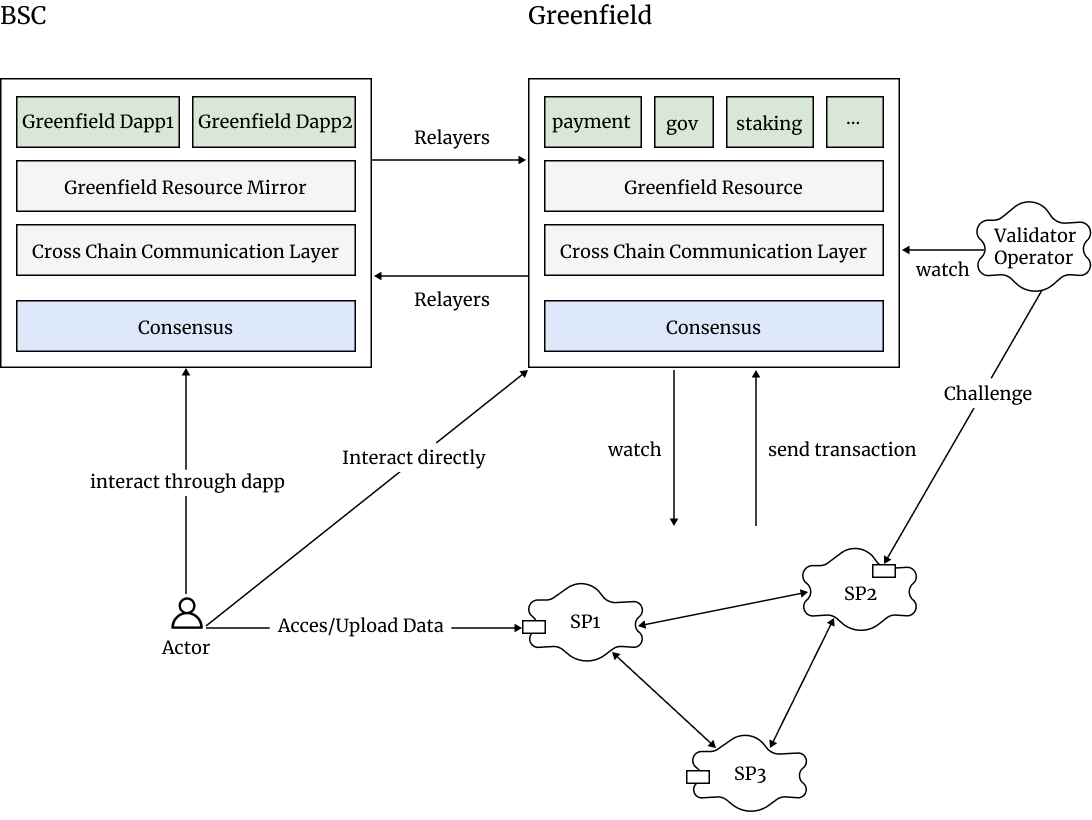
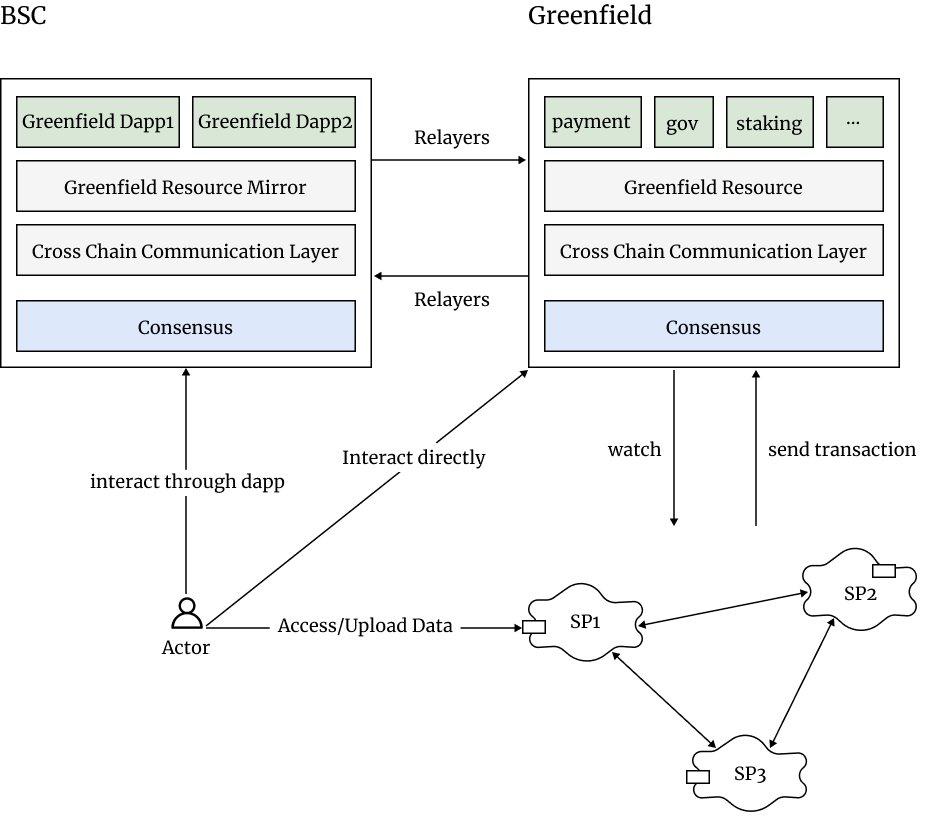
doc: fix minor ambiguous wording and figures in chapter14, adjust size of figure (#4)
* docs: fix minor ambiguity wording and figure in chapt14

* change the size of figure to 80% of origin one

diff --git a/part3.md b/part3.md
@@ -75,7 +75,7 @@ with either new sections added or existing sections revised.
 
 There are several player roles for the whole Greenfield ecosystem.
 
-<div align="center"><img src="./assets/14.1%20All%20Players%20of%20Greenfield.jpg"></div>
+<div align="center"><img src="./assets/14.1%20All%20Players%20of%20Greenfield.jpg"  height="80%" width="80%"></div>
 <div align="center"><i>Figure 14.1: All Players of Greenfield</i></div>
 
 ### 14.1 Greenfield Validators
@@ -102,7 +102,7 @@ secure validator setup of PoS blockchains. "Sentry Nodes" are used to
 defend against DDoS and provide a secure private network, as shown in
 the below diagram.
 
-<div align="center"><img src="./assets/14.2%20Greenfield%20Blockchain%20Network.jpg"></div>
+<div align="center"><img src="./assets/14.2%20Greenfield%20Blockchain%20Network.jpg"  height="80%" width="80%"></div>
 <div align="center"><i>Figure 14.2: Greenfield Blockchain Network</i></div>
 
 ### 14.2 Storage Providers (SPs)
@@ -122,7 +122,7 @@ requests in REST APIs or P2P RPCs.
 
 The typical network topology of connected SPs is as the below figure.
 
-<div align="center"><img src="./assets/14.3%20Greenfield%20Storage%20Provider%20Network.jpg"></div>
+<div align="center"><img src="./assets/14.3%20Greenfield%20Storage%20Provider%20Network.jpg" height="80%" width="80%"></div>
 <div align="center"><i>Figure 14.3: Greenfield Storage Provider Network</i></div>
 
 SPs may provide plenty of convenient services for users and dApps to get
@@ -533,7 +533,7 @@ size segment but the last segment, which is the actual size. For
 example, if one object has a size 50MB, only the size of the last
 segment is 2 MB and the other segments' sizes are all 16MB.
 
-<div align="center"><img src="./assets/18.1%20Object%20Segmentation.jpg"></div>
+<div align="center"><img src="./assets/18.1%20Object%20Segmentation.jpg"  height="50%" width="50%"></div>
 <div align="center"><i>Figure 18.1 Object Segmentation</i></div>
 
 ### 18.2 Erasure Code and Data Redundancy
@@ -573,7 +573,7 @@ This convention is to save the metadata size. An example of a 50M object
 stored with one primary SP, SP0, and 6 secondary SPs, SP1-SP6 is shown
 in the below diagram.
 
-<div align="center"><img src="./assets/18.2%20EC%20for%20Segments%20in%20Different%20Secondary%20SPs.jpg"></div>
+<div align="center"><img src="./assets/18.2%20EC%20for%20Segments%20in%20Different%20Secondary%20SPs.jpg"  height="80%" width="80%"></div>
 <div align="center"><i>Figure 18.2 EC for Segments in Different Secondary SPs</i></div>
 
 #### 18.2.2 Erasure Code
@@ -611,7 +611,7 @@ The EC module has two additional functions：
 
 Here is a detailed EC encoding setup.
 
-<div align="center"><img src="./assets/18.3%20EC%20Encoding.jpg"></div>
+<div align="center"><img src="./assets/18.3%20EC%20Encoding.jpg"  height="80%" width="80%"></div>
 <div align="center"><i>Figure 18.3 EC Encoding</i></div>
 
 As the example shown in the figure above, the 50M payload of the object
@@ -705,7 +705,7 @@ hashes, and the hash of their local manifest files are recorded in the
 subRooList field in order, e.g. the 4th element of this list will store
 the 4th secondary SP's "*PiecesRootHash(SP4)*" in the below diagram.
 
-<div align="center"><img src="./assets/19.1%20Hashes%20for%20Data%20Integrity.jpg"></div>
+<div align="center"><img src="./assets/19.1%20Hashes%20for%20Data%20Integrity.jpg"  height="80%" width="80%"></div>
 <div align="center"><i>Figure 19.1 Hashes for Data Integrity</i></div>
 
 These root hashes serve as the checksum for the data segments and
@@ -741,7 +741,7 @@ the data in the data availability challenge as described below.
 
 ### 19.2 Data Availability Challenge Process
 
-<div align="center"><img src="./assets/19.2%20Data%20Availability%20Challenge.jpg"></div>
+<div align="center"><img src="./assets/19.2%20Data%20Availability%20Challenge.jpg"  height="80%" width="80%"></div>
 <div align="center"><i>Figure 19.2 Data Availability Challenge</i></div>
 
 This data availability challenge is illustrated in above figure 19.2.
@@ -989,7 +989,7 @@ deposit, several fields will be recorded for this stream account:
 
 *Buffer Balance = - Netflow Rate \* pre-configed ReserveTime if Netflow Rate is negative*
 
-<div align="center"><img src="./assets/21.1%20How%20a%20User%20Receives%20Inflow%20and%20Outflow%20of%20Funds.jpg"></div>
+<div align="center"><img src="./assets/21.1%20How%20a%20User%20Receives%20Inflow%20and%20Outflow%20of%20Funds.jpg"  height="60%" width="60%"></div>
 <div align="center"><i>Figure 21.1 How a User Receives Inflow and Outflow of Funds</i></div>
 
 Every time a user creates, updates, or deletes a payment stream, many
@@ -1436,7 +1436,7 @@ the communication layer, but the ACK package should contain enough
 information for the resource mirror layer or the application layer to
 recover to the original state.
 
-<div align="center"><img src="./assets/22.3%20Error%20and%20Failure%20Handling.jpg"></div>
+<div align="center"><img src="./assets/22.3%20Error%20and%20Failure%20Handling.jpg"  height="60%" width="60%"></div>
 <div align="center"><i>Figure 22.1 Cross-chain Error and Failure Handling</i></div>
 
 When Greenfield emits an ACK or FAIL_ACK package, the registered
@@ -1453,8 +1453,8 @@ cross-chain packages if there are any pending failed packages in their
 queue. It asks the BSC dApps must handle the failed packages in
 sequence.
 
-The communication layer can catch any exception thrown by the middle or
-application layer, so that package delivery won't be blocked by any
+The communication layer can catch any exception thrown by the resource mirror
+layer or application layer, so that package delivery won't be blocked by any
 customized applications.
 
 ## 23 SP APIs

diff --git a/part1.md b/part1.md
@@ -74,7 +74,7 @@ fundamentals are also important to highlight.
    first step Greenfield goes ahead with is to provide the freedom to choose among plenty of service suppliers at any
    time with trivial costs because they own the data.
 
-<div align="center"><img src="./assets/1%20Decentralization%20Spectrum.png"></div>
+<div align="center"><img src="./assets/1%20Decentralization%20Spectrum.png" height="80%" width="80%"></div>
 <div align="center"><i>Figure 1.1: Decentralization Spectrum</i></div>
 
 ## 2 Assumptions
@@ -597,7 +597,7 @@ or by an EOA.
 
 ### 6.6 Fees and Payments
 
-<div align="center"><img src="./assets/6.6%20Payment%20Stream%20Flow.png"></div>
+<div align="center"><img src="./assets/6.6%20Payment%20Stream%20Flow.png" height="80%" width="80%"></div>
 <div align="center"><i>Figure 6.1: Payment Stream Flow</i></div>
 
 The storage fee will be charged on Greenfield in a steam payment style
@@ -716,7 +716,7 @@ Users can request to delete their data objects. Greenfield will remove
 the metadata from the blockchain state, while the primary SP should
 respond to this request and drop all the replicas and redundant
 segments. The payment stream will be closed with a reward rebate to
-encourage the deletion.
+encourage the deletion in the future.
 
 ## 7 Economy of Data Assets
 
@@ -770,7 +770,7 @@ will be used as the self-stake of validators and early days gas fees.
 
 ### 7.2 Framework
 
-<div align="center"><img src="./assets/7.1%20Cross-chain%20Architecture.jpg"></div>
+<div align="center"><img src="./assets/7.1%20Cross-chain%20Architecture.jpg"  height="80%" width="80%"></div>
 <div align="center"><i>Figure 7.1: Cross-chain Architecture</i></div>
 
 The bottom layer is a cross-chain **Communication Layer**, which focuses
@@ -779,10 +779,10 @@ layer implements the **Resource Mirror**. It is responsible for managing
 the resource assets that are defined on Greenfield but mirrored onto
 BSC. The top layer is the **Application Layer**, which are the smart
 contracts implemented by community developers on BSC to operate the
-mirrored resource entities with their primitives; Greenfield does not
-have such a layer. The real dApps will have some part in this
-Application Layer and also interact with Greenfield Core and all sorts
-of supporting infrastructures.
+mirrored resource entities with their primitives; Greenfield does not have
+such an application layer since itself does not provide programmability yet.
+The real dApps will have some part in this Application Layer and also
+interact with Greenfield Core and all sorts of supporting infrastructures.
 
 Because of the asymmetric framework, BSC focuses more on the
 application/control plane, while Greenfield is the data plane. To avoid
@@ -836,7 +836,7 @@ address scheme. The same address values on both sides mean the same
 account. They do not require an actual mirror.
 
 BNB is a natively pegged token from the genesis of Greenfield. The
-"Token Hub" contract is a system contract built within BSC to ensure
+"Token Hub" contract is a smart contract built on BSC to ensure
 that Greenfield cannot inflate BNB and secure the total circulation of
 BNB.
 
@@ -885,6 +885,8 @@ Object:
 - associate buckets to payment accounts on BSC
 
 Group:
+
+- mirror group from Greenfield to BSC
 
 - create a group on BSC
 
